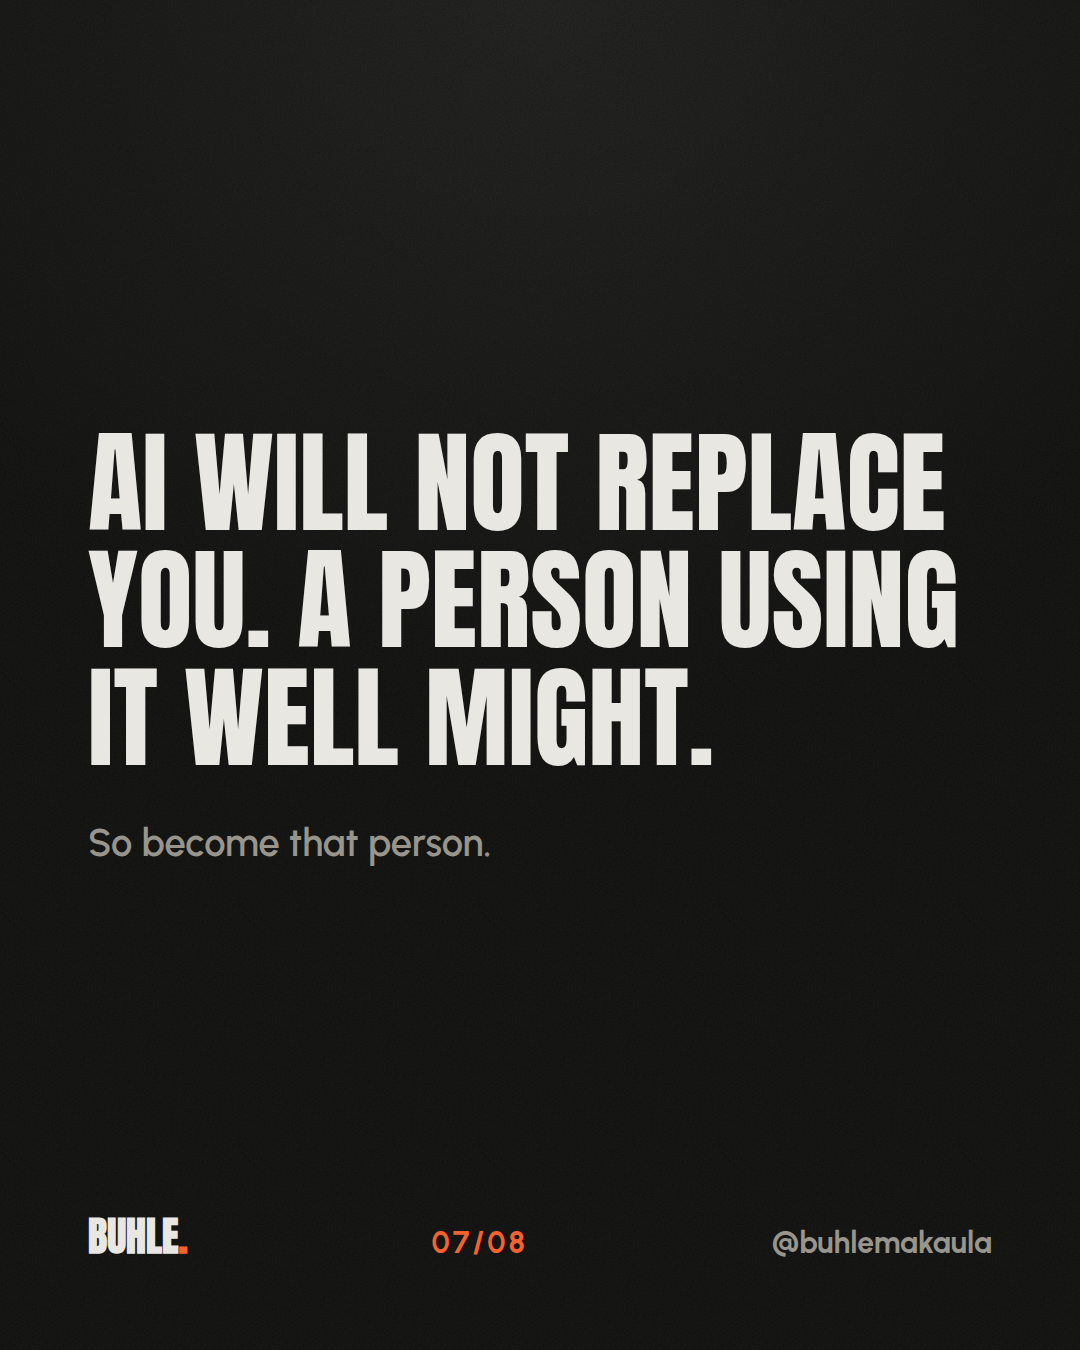
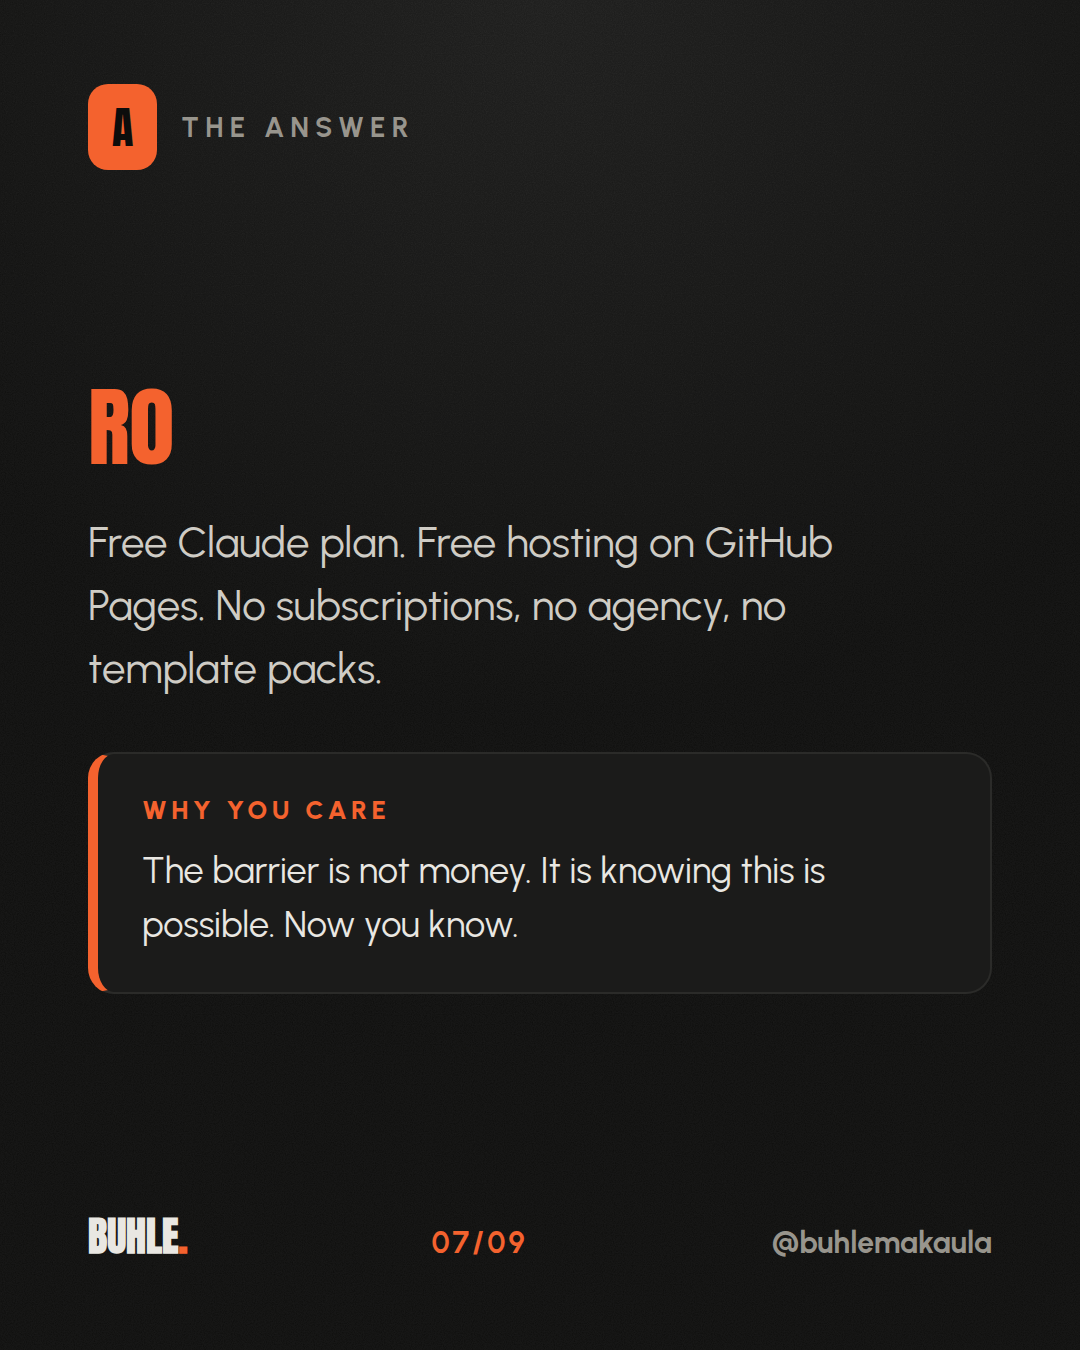
Deepen content strategy: receipts, experiments and engagement mechanics
Rewrites the whole calendar around one identity: an AI agent runs
this page and shows its receipts. Every post is now one real task
done start to finish with failure before fix. New renderer slide
types: quiz and answer pairs, A or B votes, prompt and output
receipts, checklists, challenges, and per slide engagement tags.
Outlined weeks carry experiment briefs the daily agent executes for
real before writing.

Claude-Session: https://claude.ai/code/session_01NSYXyiPU8FjqASpJLARP25

diff --git a/scripts/render-post.js b/scripts/render-post.js
@@ -34,13 +34,70 @@ function accentify(title, accent) {
 
 function slideHTML(s, i, total) {
   const num = String(i + 1).padStart(2, "0") + "/" + String(total).padStart(2, "0");
-  const footer = `
+  const engage = s.engage ? `<div class="engage">${esc(s.engage)}</div>` : "";
+  const footer = `${engage}
     <footer class="foot">
       <span class="brand">BUHLE<em>.</em></span>
       <span class="page">${num}</span>
       <span class="handle">${esc(handle)}</span>
     </footer>`;
 
+  if (s.type === "quiz") {
+    return `<div class="slide quiz">
+      <div class="eyebrow-row"><span class="pill">Guess before you swipe</span></div>
+      <div class="mid">
+        <h2 class="q">${esc(s.q)}</h2>
+        ${s.hint ? `<p class="qsub">${esc(s.hint)}</p>` : ""}
+        <p class="swipe">Answer next <span class="arr">&rarr;</span></p>
+      </div>${footer}</div>`;
+  }
+  if (s.type === "answer") {
+    return `<div class="slide answer">
+      <div class="eyebrow-row"><span class="numchip">A</span><span class="series">The answer</span></div>
+      <div class="mid">
+        <h2>${esc(s.heading)}</h2>
+        <p class="body">${esc(s.body)}</p>
+        ${s.why ? `<div class="example"><span class="exlabel">Why you care</span><p>${esc(s.why)}</p></div>` : ""}
+      </div>${footer}</div>`;
+  }
+  if (s.type === "receipt") {
+    return `<div class="slide receipt">
+      <div class="eyebrow-row"><span class="pill">${esc(s.label || "Receipt")}</span></div>
+      <div class="mid">
+        <div class="example prompt-box"><span class="exlabel">The prompt</span><p>${esc(s.prompt)}</p></div>
+        <div class="example output-box"><span class="exlabel out">What came back</span><p>${esc(s.output)}</p></div>
+        ${s.note ? `<p class="note">${esc(s.note)}</p>` : ""}
+      </div>${footer}</div>`;
+  }
+  if (s.type === "ab") {
+    return `<div class="slide ab">
+      <div class="eyebrow-row"><span class="pill">Vote in the comments</span></div>
+      <div class="mid">
+        <h2>${esc(s.heading)}</h2>
+        <div class="ab-row">
+          <div class="ab-box"><span class="ab-tag">A</span><p>${esc(s.a)}</p></div>
+          <div class="ab-box"><span class="ab-tag">B</span><p>${esc(s.b)}</p></div>
+        </div>
+        <p class="body ask">${esc(s.ask)}</p>
+      </div>${footer}</div>`;
+  }
+  if (s.type === "checklist") {
+    return `<div class="slide check">
+      <div class="eyebrow-row"><span class="series">${esc(series)}</span></div>
+      <div class="mid">
+        <h2>${esc(s.heading)}</h2>
+        <ul class="checklist">${(s.items || []).map((it) => `<li>${esc(it)}</li>`).join("")}</ul>
+      </div>${footer}</div>`;
+  }
+  if (s.type === "challenge") {
+    return `<div class="slide challenge">
+      <div class="eyebrow-row"><span class="pill">Try it tonight</span></div>
+      <div class="mid">
+        <h2>${esc(s.heading)}</h2>
+        <p class="body">${esc(s.body)}</p>
+        <div class="example"><span class="exlabel">Your move</span><p>${esc(s.action)}</p></div>
+      </div>${footer}</div>`;
+  }
   if (s.type === "cover") {
     return `<div class="slide cover">
       <div class="eyebrow-row"><span class="pill">${esc(series)}</span></div>
@@ -138,11 +195,54 @@ const page_html = `<!DOCTYPE html><html><head><meta charset="utf-8"><style>
   }
   .example p { font-size: 36px; line-height: 1.5; color: #e9e7e2; }
 
-  .quotecard .q {
+  .quotecard .q, .quiz .q {
     font-family: "Anton", sans-serif; font-weight: 400;
     font-size: 112px; line-height: 1.05; text-transform: uppercase;
   }
+  .quiz .q { font-size: 96px; }
   .qsub { margin-top: 44px; color: #98958d; font-size: 38px; font-weight: 600; }
+
+  .answer h2, .ab h2, .check h2, .challenge h2 {
+    font-family: "Anton", sans-serif; font-weight: 400;
+    font-size: 88px; line-height: 1.0; text-transform: uppercase; margin-bottom: 40px;
+  }
+  .answer h2 { color: #f4622e; }
+
+  .receipt .prompt-box { margin-top: 0; }
+  .receipt .output-box { margin-top: 34px; border-left-color: #98958d; }
+  .receipt .output-box .exlabel.out { color: #98958d; }
+  .receipt .note { margin-top: 40px; font-size: 38px; line-height: 1.45; color: #e9e7e2; font-weight: 600; }
+
+  .ab-row { display: flex; gap: 30px; }
+  .ab-box {
+    flex: 1; background: #1b1b1a; border: 2px solid #2b2b29;
+    border-radius: 26px; padding: 40px;
+  }
+  .ab-box p { font-size: 36px; line-height: 1.45; color: #cfccc5; }
+  .ab-tag {
+    display: inline-block; font-family: "Anton", sans-serif; font-size: 44px;
+    color: #0d0d0c; background: #f4622e; border-radius: 16px;
+    padding: 6px 26px; margin-bottom: 24px;
+  }
+  .ab .ask { margin-top: 44px; font-weight: 700; color: #e9e7e2; }
+
+  .checklist { list-style: none; }
+  .checklist li {
+    font-size: 42px; line-height: 1.4; color: #cfccc5;
+    padding-left: 64px; position: relative; margin-bottom: 34px;
+  }
+  .checklist li::before {
+    content: ""; position: absolute; left: 0; top: 14px;
+    width: 34px; height: 34px; border-radius: 9px;
+    border: 4px solid #f4622e;
+  }
+
+  .engage {
+    position: relative; z-index: 2; align-self: flex-start;
+    border: 3px solid #f4622e; color: #f4622e;
+    font-weight: 800; font-size: 28px; letter-spacing: 0.14em; text-transform: uppercase;
+    padding: 14px 34px; border-radius: 999px; margin-bottom: 44px;
+  }
 
   .cta { text-align: left; }
   .cta .mono { font-family: "Anton", sans-serif; font-size: 170px; line-height: 1; margin-bottom: 40px; }
